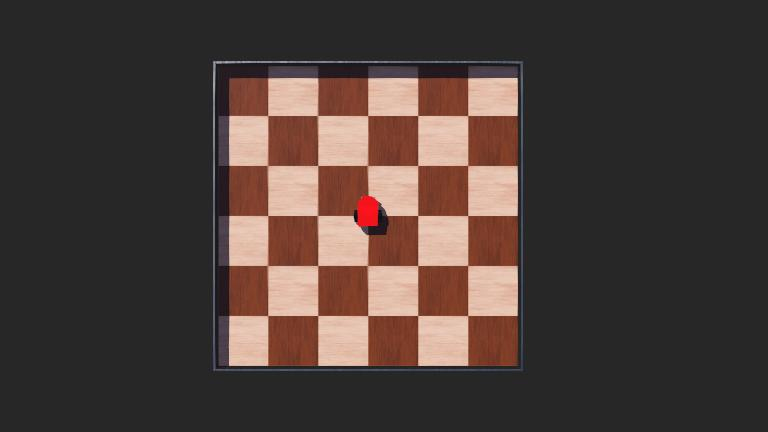
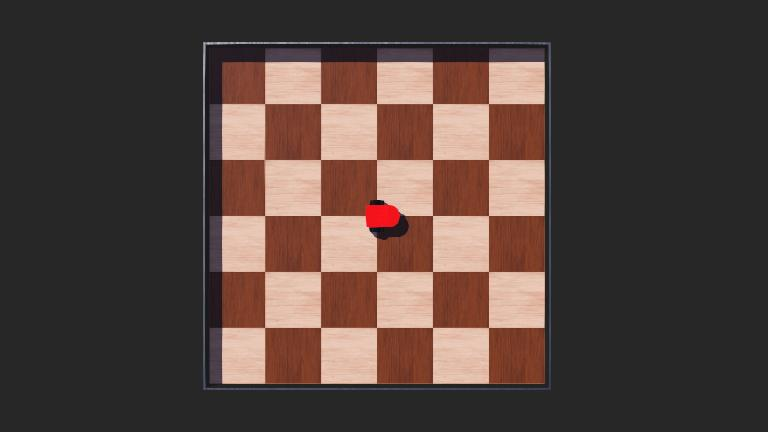
diff drive sim robot reference frame correction

Changed region(s): [[0.25, 0.0903, 0.7188, 0.9028]]

diff --git a/src/diff_drive_sim/diff_drive_sim/webots_robot_driver.py b/src/diff_drive_sim/diff_drive_sim/webots_robot_driver.py
@@ -47,8 +47,8 @@ class RobotDriver:
         forward_speed = self.__target_twist.linear.x
         angular_speed = self.__target_twist.angular.z
 
-        command_motor_left = -(forward_speed - angular_speed * HALF_DISTANCE_BETWEEN_WHEELS) / WHEEL_RADIUS
-        command_motor_right = -(forward_speed + angular_speed * HALF_DISTANCE_BETWEEN_WHEELS) / WHEEL_RADIUS
+        command_motor_left = (forward_speed + angular_speed * HALF_DISTANCE_BETWEEN_WHEELS) / WHEEL_RADIUS
+        command_motor_right = (forward_speed - angular_speed * HALF_DISTANCE_BETWEEN_WHEELS) / WHEEL_RADIUS
 
         self.__left_motor.setVelocity(command_motor_left)
         self.__right_motor.setVelocity(command_motor_right)
